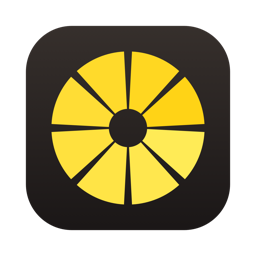
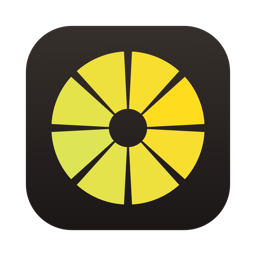
Gomo agora é Limette: nome, ícone e cores puxando para o verde

Changed region(s): [[0.1875, 0.3125, 0.5, 0.8125], [0.5625, 0.5, 0.8125, 0.6875]]

diff --git a/index.html b/index.html
@@ -3,28 +3,29 @@
 <head>
 <meta charset="utf-8">
 <meta name="viewport" content="width=device-width, initial-scale=1, viewport-fit=cover">
-<title>Gomo</title>
+<title>Limette</title>
 <meta name="description" content="Arraste um arquivo, aperte uma tecla e escolha na roda. Converter, comprimir, tarjar e assinar no Mac e no Windows, sem internet.">
 <meta name="claude:viewport-fit-sides" content="cover">
 <link rel="icon" href="icon.png">
 <link rel="preconnect" href="https://fonts.googleapis.com">
 <link rel="stylesheet" href="https://fonts.googleapis.com/css2?family=Bricolage+Grotesque:opsz,wght@12..96,500;12..96,700;12..96,800&family=Figtree:wght@400;500;600&family=JetBrains+Mono:wght@500&display=swap">
 <style>
-/* Layout: casca escura do ícone, gomos amarelos como único acento; a roda real do app é o herói */
+/* Layout: casca escura do ícone, gomos do amarelo ao verde-claro como único acento; a roda real do app é o herói */
 /* escuro é o padrão; o claro só entra pelo botão (data-theme="light") */
 :root{
-  --bg:#12100d; --surface:#1b1814; --raise:#24201a; --ink:#f5efe0; --muted:#a69d8a; --line:#2e2a23;
-  --lemon:#f6d32d; --lemon-soft:#f6d32d22; --lemon-ink:#231d00; --accent-text:#f6d32d; --glow:#2a241a; --shadow:#0009; --h1-accent:#f6d32d; --h1-mark:transparent;
+  --bg:#10120c; --surface:#191c14; --raise:#22261b; --ink:#f2f4e6; --muted:#a3a892; --line:#2b3024;
+  --lime:#b3ed6b; --grad:linear-gradient(120deg,#f6d32d 0%,#d4e85a 60%,#b3ed6b 100%);
+  --lemon:#f6d32d; --lemon-soft:#f6d32d22; --lemon-ink:#231d00; --accent-text:#f6d32d; --glow:#232a17; --shadow:#0009; --h1-accent:#f6d32d; --h1-mark:transparent;
   --glass-1:#ffffff12; --glass-2:#ffffff06; --glass-border:#ffffff1c; --glass-hi:#ffffff1f; --glass-shadow:0 1px 2px #0006, 0 16px 40px -12px #000c;
-  --chip:#ffffff10; --blob-1:#f6d32d; --blob-2:#ffb86b; --blob-op:.2;
+  --chip:#ffffff10; --blob-1:#f6d32d; --blob-2:#b3ed6b; --blob-op:.2;
   --f-display:"Bricolage Grotesque", "Avenir Next", system-ui, sans-serif;
   --f-body:"Figtree", -apple-system, "Segoe UI", system-ui, sans-serif;
   --f-mono:"JetBrains Mono", ui-monospace, Menlo, Consolas, monospace;
   color-scheme:dark;
 }
 :root[data-theme="light"]{
-  --bg:#faf7ee; --surface:#ffffff; --raise:#f2ede0; --ink:#1d1a14; --muted:#6b6455; --line:#e5dece;
-  --accent-text:#8a6c00; --glow:#fff6cc; --shadow:#5a4a1a40; --h1-accent:#1d1a14; --h1-mark:#f6d32d;
+  --bg:#f8faee; --surface:#ffffff; --raise:#eef2e0; --ink:#1b1e14; --muted:#5f6652; --line:#dfe5cc;
+  --accent-text:#6b7400; --glow:#f2fbcf; --shadow:#5a4a1a40; --h1-accent:#1b1e14; --h1-mark:#f6d32d;
   --glass-1:#ffffffd0; --glass-2:#ffffff80; --glass-border:#ffffffb0; --glass-hi:#ffffff; --glass-shadow:0 1px 2px #3a2f0a14, 0 12px 32px -8px #3a2f0a26;
   --chip:#ffffffa0; --blob-op:.55; color-scheme:light }
 *{box-sizing:border-box}
@@ -44,8 +45,8 @@ kbd{font-family:var(--f-mono);font-size:.82em;background:var(--raise);border:1px
 .lede{font-size:clamp(1.1rem,2vw,1.3rem);color:var(--muted);max-width:52ch}
 .btn{display:inline-flex;align-items:center;gap:10px;border-radius:999px;padding:14px 24px;font-weight:600;text-decoration:none;border:1px solid var(--line);background:var(--surface);transition:transform .15s, background .15s}
 .btn:hover{transform:translateY(-1px);background:var(--raise)}
-.btn.primary{background:var(--lemon);color:var(--lemon-ink);border-color:var(--lemon)}
-.btn.primary:hover{background:#ffe04a}
+.btn.primary{background:var(--grad);color:var(--lemon-ink);border-color:transparent}
+.btn.primary:hover{filter:brightness(1.06)}
 .btn small{font-family:var(--f-mono);font-size:.72rem;opacity:.7;font-weight:500}
 :focus-visible{outline:3px solid var(--lemon);outline-offset:3px}
 section{padding-block:120px 0}
@@ -71,7 +72,8 @@ nav .btn{padding:8px 16px;font-size:.9rem}
 /* hero */
 .hero{padding-block:72px 0;display:grid;grid-template-columns:minmax(0,1fr) minmax(0,1fr);gap:40px;align-items:center}
 .hero .copy{display:grid;gap:24px}
-.hero h1 span{color:var(--h1-accent);background:linear-gradient(transparent 58%, var(--h1-mark) 58%, var(--h1-mark) 92%, transparent 92%);padding-inline:.04em}
+.hero h1 span{background:var(--grad);-webkit-background-clip:text;background-clip:text;color:transparent}
+:root[data-theme="light"] .hero h1 span{color:var(--h1-accent);-webkit-background-clip:border-box;background:linear-gradient(90deg,#f6d32d,#b3ed6b) 0 82%/100% 34% no-repeat;padding-inline:.04em}
 .ctas{display:flex;flex-wrap:wrap;gap:12px}
 .note{font-size:.88rem;color:var(--muted)}
 @media (max-width:900px){.hero{grid-template-columns:1fr}}
@@ -150,7 +152,7 @@ nav .btn{padding:8px 16px;font-size:.9rem}
 .card.wide{grid-column:span 3}
 .card ul{margin:0;padding:0;list-style:none;display:grid;gap:8px;color:var(--muted);font-size:.95rem}
 .card li{display:grid;grid-template-columns:14px 1fr;gap:10px}
-.card li::before{content:"";width:7px;height:7px;margin-top:.62em;border-radius:50%;background:var(--lemon)}
+.card li::before{content:"";width:7px;height:7px;margin-top:.62em;border-radius:50%;background:var(--grad)}
 .card .tag{font-family:var(--f-mono);font-size:.72rem;color:var(--accent-text)}
 @media (max-width:980px){.card,.card.wide{grid-column:span 3}}
 @media (max-width:640px){.bento{grid-template-columns:1fr}.card,.card.wide{grid-column:auto}}
@@ -166,7 +168,7 @@ nav .btn{padding:8px 16px;font-size:.9rem}
 .art svg{width:100%;height:100%;display:block}
 
 /* privacy */
-.priv{border-radius:32px;background:var(--lemon);color:var(--lemon-ink);padding:clamp(32px,6vw,72px);display:grid;gap:20px;position:relative;overflow:hidden}
+.priv{border-radius:32px;background:var(--grad);color:var(--lemon-ink);padding:clamp(32px,6vw,72px);display:grid;gap:20px;position:relative;overflow:hidden}
 .priv h2{font-size:clamp(2.4rem,6vw,4.6rem);max-width:14ch}
 .priv p{max-width:56ch;font-size:1.1rem}
 .priv .seg{position:absolute;right:-120px;bottom:-120px;width:420px;opacity:.16}
@@ -201,7 +203,7 @@ footer .flinks a:hover{color:var(--ink)}
 <body>
 
 <nav class="g"><div class="wrap">
-  <a class="brand" href="#top"><img src="icon.png" alt="">Gomo</a>
+  <a class="brand" href="#top"><img src="icon.png" alt="">Limette</a>
   <div class="links"><a href="#como">Como funciona</a><a href="#recursos">Recursos</a><a href="#privacidade">Privacidade</a><a href="#perguntas">Perguntas</a></div>
   <button class="theme" id="theme" type="button" aria-label="Trocar entre modo claro e escuro">
     <svg class="moon" viewBox="0 0 24 24" fill="none" stroke="currentColor" stroke-width="2" stroke-linecap="round"><path d="M20 14.5A8 8 0 0 1 9.5 4a8 8 0 1 0 10.5 10.5Z"/></svg>
@@ -217,18 +219,18 @@ footer .flinks a:hover{color:var(--ink)}
     <h1>Arraste.<br>Aperte.<br><span>Pronto.</span></h1>
     <p class="lede">Comece a arrastar um arquivo, aperte uma tecla e uma roda aparece em volta do cursor. Solte numa fatia e o arquivo sai convertido, comprimido, tarjado ou assinado, sem abrir nenhum programa.</p>
     <div class="ctas">
-      <a class="btn primary" href="#baixar">Baixar o Gomo</a>
+      <a class="btn primary" href="#baixar">Baixar o Limette</a>
       <a class="btn" href="#como">Ver como funciona</a>
     </div>
     <p class="note">Tudo acontece no seu computador. Nenhum arquivo vai para a internet.</p>
   </div>
 
-  <div class="stage" id="stage" aria-label="Demonstração: um arquivo é arrastado, uma tecla é apertada e a roda do Gomo aparece">
+  <div class="stage" id="stage" aria-label="Demonstração: um arquivo é arrastado, uma tecla é apertada e a roda do Limette aparece">
     <div class="dots"></div>
     <div class="caption" id="cap">foto.jpg</div>
-    <img class="wheel" data-w="0" src="img/roda-convert.png" alt="Roda Converter do Gomo">
-    <img class="wheel" data-w="1" src="img/roda-tools.png" alt="Roda Ferramentas do Gomo">
-    <img class="wheel" data-w="2" src="img/roda-actions.png" alt="Roda Ações do Gomo">
+    <img class="wheel" data-w="0" src="img/roda-convert.png" alt="Roda Converter do Limette">
+    <img class="wheel" data-w="1" src="img/roda-tools.png" alt="Roda Ferramentas do Limette">
+    <img class="wheel" data-w="2" src="img/roda-actions.png" alt="Roda Ações do Limette">
     <div class="file" id="file"><div class="doc"><b>JPG</b></div><div class="name">foto.jpg</div></div>
     <svg class="cursor" id="cursor" viewBox="0 0 22 30" aria-hidden="true"><path d="M2 2 L2 24 L8 18 L12 28 L16 26 L12 17 L20 17 Z" fill="#fff" stroke="#000" stroke-width="1.5" stroke-linejoin="round"/></svg>
     <div class="keys"><kbd data-k="0">⇧</kbd><kbd data-k="1">⌘</kbd><kbd data-k="2">⌃</kbd></div>
@@ -344,7 +346,7 @@ footer .flinks a:hover{color:var(--ink)}
     <div class="txt">
       <div class="eyebrow">PDF · tarjar e assinar</div>
       <h2>A tarja que não volta.</h2>
-      <p>O Gomo procura CPF, CNPJ, e-mail, telefone e cartão sozinho. Quando você salva, o texto embaixo da tarja é apagado e a página é refeita, então ninguém consegue copiar ou recuperar o que foi coberto. Depois ele confere se ficou mesmo limpo.</p>
+      <p>O Limette procura CPF, CNPJ, e-mail, telefone e cartão sozinho. Quando você salva, o texto embaixo da tarja é apagado e a página é refeita, então ninguém consegue copiar ou recuperar o que foi coberto. Depois ele confere se ficou mesmo limpo.</p>
       <p>Na mesma janela você assina: desenhe com o trackpad ou tire a assinatura de uma foto do papel.</p>
     </div>
   </div>
@@ -368,7 +370,7 @@ footer .flinks a:hover{color:var(--ink)}
     <div class="txt">
       <div class="eyebrow">Engenharia · DWG e DXF</div>
       <h2>Mande a planta para quem não tem AutoCAD.</h2>
-      <p>Arraste o DWG, aperte <kbd>⇧</kbd> e solte em PDF. O Gomo desenha linhas, arcos, cotas, hachuras, blocos e textos com traço fino de 0,05 mm, pronto para imprimir ou mandar pelo WhatsApp.</p>
+      <p>Arraste o DWG, aperte <kbd>⇧</kbd> e solte em PDF. O Limette desenha linhas, arcos, cotas, hachuras, blocos e textos com traço fino de 0,05 mm, pronto para imprimir ou mandar pelo WhatsApp.</p>
       <p>Também converte DXF para DWG, troca a versão do DWG e gera o modelo do SketchUp.</p>
     </div>
   </div>
@@ -381,7 +383,7 @@ footer .flinks a:hover{color:var(--ink)}
       <path d="M50 50 L46 94 A44 44 0 0 1 19 81 Z"/><path d="M50 50 L16 78 A44 44 0 0 1 6 50 Z"/><path d="M50 50 L6 46 A44 44 0 0 1 19 19 Z"/><path d="M50 50 L22 16 A44 44 0 0 1 46 6 Z"/></g></svg>
     <div class="eyebrow" style="color:var(--lemon-ink)">Privacidade</div>
     <h2>Seus arquivos não saem do computador.</h2>
-    <p>Nada de site de conversão, nada de upload, nada de conta. Contratos, documentos com CPF, fotos da família e plantas de cliente são processados ali mesmo, e o Gomo funciona até sem internet.</p>
+    <p>Nada de site de conversão, nada de upload, nada de conta. Contratos, documentos com CPF, fotos da família e plantas de cliente são processados ali mesmo, e o Limette funciona até sem internet.</p>
   </div>
 </div></section>
 
@@ -402,8 +404,8 @@ footer .flinks a:hover{color:var(--ink)}
       <h3>Windows</h3>
       <dl><dt>Sistema</dt><dd>Windows 10 ou 11</dd><dt>Processador</dt><dd>Intel/AMD (x64) ou ARM</dd><dt>Teclas</dt><dd><kbd>Shift</kbd> <kbd>Ctrl</kbd> <kbd>Alt</kbd></dd><dt>Atualização</dt><dd>automática, uma vez por dia</dd></dl>
       <div class="btns">
-        <a class="btn primary" href="https://github.com/LuisFelipe210/gomo-releases/releases/latest/download/Gomo.exe">Baixar para Windows <small>x64</small></a>
-        <a class="btn" href="https://github.com/LuisFelipe210/gomo-releases/releases/latest/download/Gomo-ARM64.exe">ARM <small>ARM64</small></a>
+        <a class="btn primary" href="https://github.com/LuisFelipe210/limette-releases/releases/latest/download/Limette.exe">Baixar para Windows <small>x64</small></a>
+        <a class="btn" href="https://github.com/LuisFelipe210/limette-releases/releases/latest/download/Limette-ARM64.exe">ARM <small>ARM64</small></a>
       </div>
     </div>
   </div>
@@ -415,15 +417,15 @@ footer .flinks a:hover{color:var(--ink)}
     <details><summary>Precisa de internet?</summary><p>Não. Todas as conversões e ferramentas rodam no seu computador. A internet só é usada no Windows para procurar atualização, uma vez por dia.</p></details>
     <details><summary>Funciona arrastando de qualquer lugar?</summary><p>Sim: do Finder ou Explorador, da mesa, do navegador, do e-mail. Basta começar a arrastar e apertar a tecla antes de soltar. A roda também aceita as teclas 1 a 9, as setas, Enter e Esc.</p></details>
     <details><summary>Onde fica o arquivo novo?</summary><p>Ao lado do original, com outro nome. Se a pasta não deixar gravar, ele vai para Downloads. O original nunca é alterado.</p></details>
-    <details><summary>Preciso instalar mais alguma coisa?</summary><p>Para vídeo e áudio o Gomo usa o ffmpeg; no Windows ele mesmo instala quando precisa. Para DWG e STEP existe um gerenciador de extras que baixa o que falta com uma barra de progresso.</p></details>
+    <details><summary>Preciso instalar mais alguma coisa?</summary><p>Para vídeo e áudio o Limette usa o ffmpeg; no Windows ele mesmo instala quando precisa. Para DWG e STEP existe um gerenciador de extras que baixa o que falta com uma barra de progresso.</p></details>
     <details><summary>Dá para trocar as teclas?</summary><p>Dá. No menu do ícone você escolhe qual tecla abre cada roda.</p></details>
-    <details><summary>Abre PPTX e planilhas sem o Office?</summary><p>Sim. O Gomo lê e desenha PPTX, XLSX, DOCX e ODS sozinho. Só o PPT antigo e o Keynote precisam do app instalado.</p></details>
+    <details><summary>Abre PPTX e planilhas sem o Office?</summary><p>Sim. O Limette lê e desenha PPTX, XLSX, DOCX e ODS sozinho. Só o PPT antigo e o Keynote precisam do app instalado.</p></details>
   </div>
 </div></section>
 </main>
 
 <footer class="g"><div class="wrap">
-  <a class="brand" href="#top"><img src="icon.png" alt="">Gomo</a>
+  <a class="brand" href="#top"><img src="icon.png" alt="">Limette</a>
   <span>Feito no Brasil. Conversor “zero clique” para Mac e Windows.</span>
   <div class="flinks"><a href="termos.html">Termos de uso</a><a href="privacidade.html">Privacidade</a></div>
 </div></footer>
@@ -491,11 +493,11 @@ async function loop(){
 }
 // tema: segue o sistema até a pessoa escolher
 const root = document.documentElement;
-try{ const t = localStorage.getItem("gomo-tema"); if(t) root.dataset.theme = t; }catch(e){}
+try{ const t = localStorage.getItem("limette-tema"); if(t) root.dataset.theme = t; }catch(e){}
 document.getElementById("theme").addEventListener("click", ()=>{
   const dark = root.dataset.theme!=="light";
   root.dataset.theme = dark ? "light" : "dark";
-  try{ localStorage.setItem("gomo-tema", root.dataset.theme); }catch(e){}
+  try{ localStorage.setItem("limette-tema", root.dataset.theme); }catch(e){}
 });
 
 if(reduce){ wheels[1].classList.add("show"); keys[1].classList.add("down"); file.classList.add("drag"); cursor.classList.add("drag"); file.style.opacity = 0; }

diff --git a/termos.html b/termos.html
@@ -3,16 +3,16 @@
 <head>
 <meta charset="utf-8">
 <meta name="viewport" content="width=device-width, initial-scale=1, viewport-fit=cover">
-<title>Termos de uso · Gomo</title>
-<meta name="description" content="Termos de uso do Gomo para Mac e Windows.">
+<title>Termos de uso · Limette</title>
+<meta name="description" content="Termos de uso do Limette para Mac e Windows.">
 <link rel="icon" href="icon.png">
 <link rel="stylesheet" href="https://fonts.googleapis.com/css2?family=Bricolage+Grotesque:opsz,wght@12..96,700;12..96,800&family=Figtree:wght@400;500;600&family=JetBrains+Mono:wght@500&display=swap">
 <link rel="stylesheet" href="legal.css">
-<script>try{var t=localStorage.getItem("gomo-tema");if(t)document.documentElement.dataset.theme=t}catch(e){}</script>
+<script>try{var t=localStorage.getItem("limette-tema");if(t)document.documentElement.dataset.theme=t}catch(e){}</script>
 </head>
 <body>
 <nav class="g"><div class="wrap">
-  <a class="brand" href="index.html"><img src="icon.png" alt="">Gomo</a>
+  <a class="brand" href="index.html"><img src="icon.png" alt="">Limette</a>
   <a class="back" href="index.html">← Voltar ao site</a>
 </div></nav>
 
@@ -24,10 +24,10 @@
   <div class="summary">
     <b>Em resumo</b>
     <ul>
-      <li>Você pode usar o Gomo nos seus computadores, para fins pessoais ou de trabalho.</li>
-      <li>Seus arquivos continuam seus. O Gomo processa tudo no seu computador.</li>
+      <li>Você pode usar o Limette nos seus computadores, para fins pessoais ou de trabalho.</li>
+      <li>Seus arquivos continuam seus. O Limette processa tudo no seu computador.</li>
       <li>O original nunca é alterado, mas confira o resultado antes de apagar qualquer coisa.</li>
-      <li>O Gomo é entregue como está, sem garantia de que funcione em todos os casos.</li>
+      <li>O Limette é entregue como está, sem garantia de que funcione em todos os casos.</li>
     </ul>
   </div>
 
@@ -36,46 +36,46 @@
   </nav>
 
   <h2 id="aceite"><span>1</span>Aceite</h2>
-  <p>Estes termos valem para o aplicativo Gomo para Mac e para Windows e para este site. Ao baixar, instalar ou usar o Gomo, você concorda com eles. Se não concordar, não use o aplicativo.</p>
+  <p>Estes termos valem para o aplicativo Limette para Mac e para Windows e para este site. Ao baixar, instalar ou usar o Limette, você concorda com eles. Se não concordar, não use o aplicativo.</p>
 
   <h2 id="licenca"><span>2</span>Licença de uso</h2>
-  <p>Você recebe uma licença pessoal, não exclusiva e intransferível para instalar e usar o Gomo nos computadores que você usa, inclusive no trabalho.</p>
+  <p>Você recebe uma licença pessoal, não exclusiva e intransferível para instalar e usar o Limette nos computadores que você usa, inclusive no trabalho.</p>
   <p>Não é permitido:</p>
   <ul>
-    <li>vender, alugar ou redistribuir o Gomo como se fosse seu;</li>
+    <li>vender, alugar ou redistribuir o Limette como se fosse seu;</li>
     <li>modificar o aplicativo, fazer engenharia reversa ou contornar qualquer proteção, salvo quando a lei permitir;</li>
-    <li>usar o Gomo para violar a lei ou direitos de outras pessoas, como converter ou distribuir material protegido sem autorização.</li>
+    <li>usar o Limette para violar a lei ou direitos de outras pessoas, como converter ou distribuir material protegido sem autorização.</li>
   </ul>
-  <p>O Gomo, seu código, nome, ícone e visual pertencem ao autor. Esta licença não transfere nenhum desses direitos para você.</p>
+  <p>O Limette, seu código, nome, ícone e visual pertencem ao autor. Esta licença não transfere nenhum desses direitos para você.</p>
 
   <h2 id="arquivos"><span>3</span>Seus arquivos</h2>
-  <p>Os arquivos que você abre, converte ou edita continuam sendo <strong>seus</strong>. O Gomo não envia arquivos para nenhum servidor: tudo é processado no seu computador. Os detalhes estão na <a href="privacidade.html">política de privacidade</a>.</p>
-  <p>O arquivo novo é salvo ao lado do original, com outro nome, ou em Downloads quando a pasta não permite gravação. O original não é alterado. Mesmo assim, conversões podem perder informação (por exemplo, formatação ao converter PDF em DOCX, ou elementos que o leitor do Gomo não desenha, como gráficos de PPTX). <strong>Confira o resultado</strong> antes de apagar o original ou de enviar o arquivo para alguém.</p>
-  <p>Na tarja de PDF, o Gomo apaga o texto coberto e confere o arquivo depois de salvar. Ainda assim, revise documentos sensíveis antes de compartilhar: a responsabilidade pelo que é divulgado é de quem envia.</p>
+  <p>Os arquivos que você abre, converte ou edita continuam sendo <strong>seus</strong>. O Limette não envia arquivos para nenhum servidor: tudo é processado no seu computador. Os detalhes estão na <a href="privacidade.html">política de privacidade</a>.</p>
+  <p>O arquivo novo é salvo ao lado do original, com outro nome, ou em Downloads quando a pasta não permite gravação. O original não é alterado. Mesmo assim, conversões podem perder informação (por exemplo, formatação ao converter PDF em DOCX, ou elementos que o leitor do Limette não desenha, como gráficos de PPTX). <strong>Confira o resultado</strong> antes de apagar o original ou de enviar o arquivo para alguém.</p>
+  <p>Na tarja de PDF, o Limette apaga o texto coberto e confere o arquivo depois de salvar. Ainda assim, revise documentos sensíveis antes de compartilhar: a responsabilidade pelo que é divulgado é de quem envia.</p>
 
   <h2 id="terceiros"><span>4</span>Programas de terceiros</h2>
-  <p>Algumas funções usam programas que não fazem parte do Gomo e que você instala à parte, como o ffmpeg (vídeo e áudio), o LibreDWG (DWG), o ODA File Converter (versões do DWG), o Gmsh (STEP e IGES) e o SDK do SketchUp. Cada um tem a sua licença e os seus termos, que valem entre você e quem o distribui. O Gomo só aponta onde baixar e usa o programa já instalado.</p>
-  <p>A versão Windows inclui componentes de código aberto. A lista completa, com o texto de cada licença, fica no menu do ícone do Gomo, em <strong>Licenças</strong>.</p>
+  <p>Algumas funções usam programas que não fazem parte do Limette e que você instala à parte, como o ffmpeg (vídeo e áudio), o LibreDWG (DWG), o ODA File Converter (versões do DWG), o Gmsh (STEP e IGES) e o SDK do SketchUp. Cada um tem a sua licença e os seus termos, que valem entre você e quem o distribui. O Limette só aponta onde baixar e usa o programa já instalado.</p>
+  <p>A versão Windows inclui componentes de código aberto. A lista completa, com o texto de cada licença, fica no menu do ícone do Limette, em <strong>Licenças</strong>.</p>
 
   <h2 id="atualizacoes"><span>5</span>Atualizações</h2>
   <p>A versão Windows procura uma versão nova uma vez por dia. Quando há uma, ela pergunta antes de instalar, confere a assinatura SHA-256 do arquivo e só então troca o aplicativo. Funções podem ser adicionadas, mudadas ou retiradas entre versões.</p>
 
   <h2 id="garantia"><span>6</span>Garantia e responsabilidade</h2>
-  <p>O Gomo é fornecido <strong>“como está”</strong>. Fazemos o possível para que ele funcione bem, mas não garantimos que funcione sem erros, com todos os arquivos ou em todos os computadores.</p>
-  <p>Na medida permitida pela lei, o autor não responde por perda de dados, lucros cessantes ou outros danos indiretos decorrentes do uso do Gomo. Nada nestes termos limita direitos que a lei brasileira garante ao consumidor.</p>
+  <p>O Limette é fornecido <strong>“como está”</strong>. Fazemos o possível para que ele funcione bem, mas não garantimos que funcione sem erros, com todos os arquivos ou em todos os computadores.</p>
+  <p>Na medida permitida pela lei, o autor não responde por perda de dados, lucros cessantes ou outros danos indiretos decorrentes do uso do Limette. Nada nestes termos limita direitos que a lei brasileira garante ao consumidor.</p>
 
   <h2 id="marcas"><span>7</span>Marcas</h2>
-  <p>Mac, macOS, AirDrop e Keynote são marcas da Apple. Windows, Word, Excel e PowerPoint são marcas da Microsoft. AutoCAD e DWG são marcas da Autodesk. SketchUp é marca da Trimble. Outras marcas citadas pertencem aos seus donos. O Gomo não é afiliado nem endossado por nenhuma dessas empresas; os nomes aparecem só para dizer com quais formatos ele trabalha.</p>
+  <p>Mac, macOS, AirDrop e Keynote são marcas da Apple. Windows, Word, Excel e PowerPoint são marcas da Microsoft. AutoCAD e DWG são marcas da Autodesk. SketchUp é marca da Trimble. Outras marcas citadas pertencem aos seus donos. O Limette não é afiliado nem endossado por nenhuma dessas empresas; os nomes aparecem só para dizer com quais formatos ele trabalha.</p>
 
   <h2 id="mudancas"><span>8</span>Mudanças nestes termos</h2>
-  <p>Estes termos podem mudar. A data no topo mostra a última atualização. Se continuar usando o Gomo depois de uma mudança, você concorda com a versão nova.</p>
+  <p>Estes termos podem mudar. A data no topo mostra a última atualização. Se continuar usando o Limette depois de uma mudança, você concorda com a versão nova.</p>
 
   <h2 id="lei"><span>9</span>Lei aplicável e contato</h2>
-  <p>Estes termos seguem as leis do Brasil. Dúvidas sobre eles podem ser enviadas para <a href="mailto:contato.gomo@gmail.com">contato.gomo@gmail.com</a>.</p>
+  <p>Estes termos seguem as leis do Brasil. Dúvidas sobre eles podem ser enviadas para <a href="mailto:contato.limette@gmail.com">contato.limette@gmail.com</a>.</p>
 </article></main>
 
 <footer class="g"><div class="wrap">
-  <a class="brand" href="index.html"><img src="icon.png" alt="">Gomo</a>
+  <a class="brand" href="index.html"><img src="icon.png" alt="">Limette</a>
   <div class="links"><a href="termos.html" aria-current="page">Termos de uso</a><a href="privacidade.html">Privacidade</a><a href="index.html#baixar">Baixar</a></div>
 </div></footer>
 </body>

diff --git a/privacidade.html b/privacidade.html
@@ -3,16 +3,16 @@
 <head>
 <meta charset="utf-8">
 <meta name="viewport" content="width=device-width, initial-scale=1, viewport-fit=cover">
-<title>Privacidade · Gomo</title>
-<meta name="description" content="Política de privacidade do Gomo: seus arquivos não saem do computador.">
+<title>Privacidade · Limette</title>
+<meta name="description" content="Política de privacidade do Limette: seus arquivos não saem do computador.">
 <link rel="icon" href="icon.png">
 <link rel="stylesheet" href="https://fonts.googleapis.com/css2?family=Bricolage+Grotesque:opsz,wght@12..96,700;12..96,800&family=Figtree:wght@400;500;600&family=JetBrains+Mono:wght@500&display=swap">
 <link rel="stylesheet" href="legal.css">
-<script>try{var t=localStorage.getItem("gomo-tema");if(t)document.documentElement.dataset.theme=t}catch(e){}</script>
+<script>try{var t=localStorage.getItem("limette-tema");if(t)document.documentElement.dataset.theme=t}catch(e){}</script>
 </head>
 <body>
 <nav class="g"><div class="wrap">
-  <a class="brand" href="index.html"><img src="icon.png" alt="">Gomo</a>
+  <a class="brand" href="index.html"><img src="icon.png" alt="">Limette</a>
   <a class="back" href="index.html">← Voltar ao site</a>
 </div></nav>
 
@@ -24,7 +24,7 @@
   <div class="summary">
     <b>Em resumo</b>
     <ul>
-      <li>O Gomo não envia seus arquivos para lugar nenhum.</li>
+      <li>O Limette não envia seus arquivos para lugar nenhum.</li>
       <li>Não tem conta, não tem login e não coleta estatísticas de uso.</li>
       <li>A única conexão automática é a versão Windows procurando atualização, uma vez por dia.</li>
     </ul>
@@ -35,8 +35,8 @@
   </nav>
 
   <h2 id="arquivos"><span>1</span>Seus arquivos</h2>
-  <p>Toda conversão, compressão, edição, leitura de texto (OCR), tarja e assinatura acontece <strong>no seu computador</strong>. Os arquivos não são enviados para servidores do Gomo nem de ninguém, e o aplicativo funciona sem internet.</p>
-  <p>O Gomo lê os arquivos que você arrasta para a roda e grava o resultado na mesma pasta, ou em Downloads. Ele não guarda cópias em outro lugar.</p>
+  <p>Toda conversão, compressão, edição, leitura de texto (OCR), tarja e assinatura acontece <strong>no seu computador</strong>. Os arquivos não são enviados para servidores do Limette nem de ninguém, e o aplicativo funciona sem internet.</p>
+  <p>O Limette lê os arquivos que você arrasta para a roda e grava o resultado na mesma pasta, ou em Downloads. Ele não guarda cópias em outro lugar.</p>
 
   <h2 id="coleta"><span>2</span>O que não coletamos</h2>
   <ul>
@@ -46,7 +46,7 @@
   </ul>
 
   <h2 id="conexoes"><span>3</span>Conexões com a internet</h2>
-  <p>O Gomo só acessa a internet nestes casos:</p>
+  <p>O Limette só acessa a internet nestes casos:</p>
   <ul>
     <li><strong>Atualização (Windows):</strong> uma vez por dia, ou quando você pede no menu, o aplicativo consulta o GitHub para ver se há versão nova e, se você aceitar, baixa o instalador de lá. O GitHub recebe o endereço IP do computador e a versão consultada, como em qualquer acesso a um site. Nenhum arquivo seu vai junto.</li>
     <li><strong>Extras:</strong> quando você pede para instalar um programa extra (como o ffmpeg ou o Gmsh), o download vem do site de quem distribui esse programa, pelo Homebrew no Mac ou pelo winget e sites oficiais no Windows.</li>
@@ -54,22 +54,22 @@
   </ul>
 
   <h2 id="local"><span>4</span>O que fica no seu computador</h2>
-  <p>O Gomo guarda algumas preferências no próprio computador, como as teclas de cada roda e o histórico de assinaturas do PDF. Esses dados não saem da máquina e somem quando você desinstala o aplicativo e apaga as preferências.</p>
+  <p>O Limette guarda algumas preferências no próprio computador, como as teclas de cada roda e o histórico de assinaturas do PDF. Esses dados não saem da máquina e somem quando você desinstala o aplicativo e apaga as preferências.</p>
   <p>Funções como o OCR e a remoção de fundo no Mac usam recursos do próprio macOS, que também rodam no aparelho.</p>
 
   <h2 id="site"><span>5</span>Este site</h2>
   <p>Este site não usa cookies de rastreamento nem ferramentas de análise. Ele lembra só a sua escolha entre modo claro e escuro, guardada no seu navegador.</p>
-  <p>As fontes vêm do Google Fonts, e o site e os downloads ficam hospedados no GitHub. Ao abrir a página ou baixar o Gomo, esses serviços recebem o seu endereço IP e dados técnicos do navegador, conforme as políticas de privacidade deles.</p>
+  <p>As fontes vêm do Google Fonts, e o site e os downloads ficam hospedados no GitHub. Ao abrir a página ou baixar o Limette, esses serviços recebem o seu endereço IP e dados técnicos do navegador, conforme as políticas de privacidade deles.</p>
 
   <h2 id="direitos"><span>6</span>Seus direitos</h2>
-  <p>A Lei Geral de Proteção de Dados (LGPD, Lei nº 13.709/2018) garante a você acesso, correção e exclusão dos seus dados pessoais. Como o Gomo não coleta dados pessoais, não há nada guardado sobre você do nosso lado. Para qualquer pedido ou dúvida sobre seus dados, escreva para <a href="mailto:contato.gomo@gmail.com">contato.gomo@gmail.com</a>.</p>
+  <p>A Lei Geral de Proteção de Dados (LGPD, Lei nº 13.709/2018) garante a você acesso, correção e exclusão dos seus dados pessoais. Como o Limette não coleta dados pessoais, não há nada guardado sobre você do nosso lado. Para qualquer pedido ou dúvida sobre seus dados, escreva para <a href="mailto:contato.limette@gmail.com">contato.limette@gmail.com</a>.</p>
 
   <h2 id="contato"><span>7</span>Mudanças e contato</h2>
-  <p>Se o Gomo passar a coletar qualquer dado, esta política muda antes, e a data no topo é atualizada. Dúvidas podem ser enviadas para <a href="mailto:contato.gomo@gmail.com">contato.gomo@gmail.com</a>. Veja também os <a href="termos.html">termos de uso</a>.</p>
+  <p>Se o Limette passar a coletar qualquer dado, esta política muda antes, e a data no topo é atualizada. Dúvidas podem ser enviadas para <a href="mailto:contato.limette@gmail.com">contato.limette@gmail.com</a>. Veja também os <a href="termos.html">termos de uso</a>.</p>
 </article></main>
 
 <footer class="g"><div class="wrap">
-  <a class="brand" href="index.html"><img src="icon.png" alt="">Gomo</a>
+  <a class="brand" href="index.html"><img src="icon.png" alt="">Limette</a>
   <div class="links"><a href="termos.html">Termos de uso</a><a href="privacidade.html" aria-current="page">Privacidade</a><a href="index.html#baixar">Baixar</a></div>
 </div></footer>
 </body>

diff --git a/legal.css b/legal.css
@@ -1,6 +1,6 @@
 /* Páginas legais: mesmas cores e fontes do site, texto corrido numa coluna */
 :root{
-  --bg:#12100d; --surface:#1b1814; --raise:#24201a; --ink:#f5efe0; --muted:#a69d8a; --line:#2e2a23;
+  --bg:#10120c; --surface:#191c14; --raise:#22261b; --ink:#f2f4e6; --muted:#a3a892; --line:#2b3024;
   --lemon:#f6d32d; --lemon-ink:#231d00; --accent-text:#f6d32d;
   --f-display:"Bricolage Grotesque", "Avenir Next", system-ui, sans-serif;
   --f-body:"Figtree", -apple-system, "Segoe UI", system-ui, sans-serif;
@@ -8,8 +8,8 @@
   color-scheme:dark;
 }
 :root[data-theme="light"]{
-  --bg:#faf7ee; --surface:#ffffff; --raise:#f2ede0; --ink:#1d1a14; --muted:#6b6455; --line:#e5dece;
-  --accent-text:#8a6c00; color-scheme:light }
+  --bg:#f8faee; --surface:#ffffff; --raise:#eef2e0; --ink:#1b1e14; --muted:#5f6652; --line:#dfe5cc;
+  --accent-text:#6b7400; color-scheme:light }
 *{box-sizing:border-box}
 html{overflow-x:clip}
 body{margin:0;background:var(--bg);color:var(--ink);font-family:var(--f-body);font-size:17px;line-height:1.7;-webkit-font-smoothing:antialiased;overflow-x:clip}
